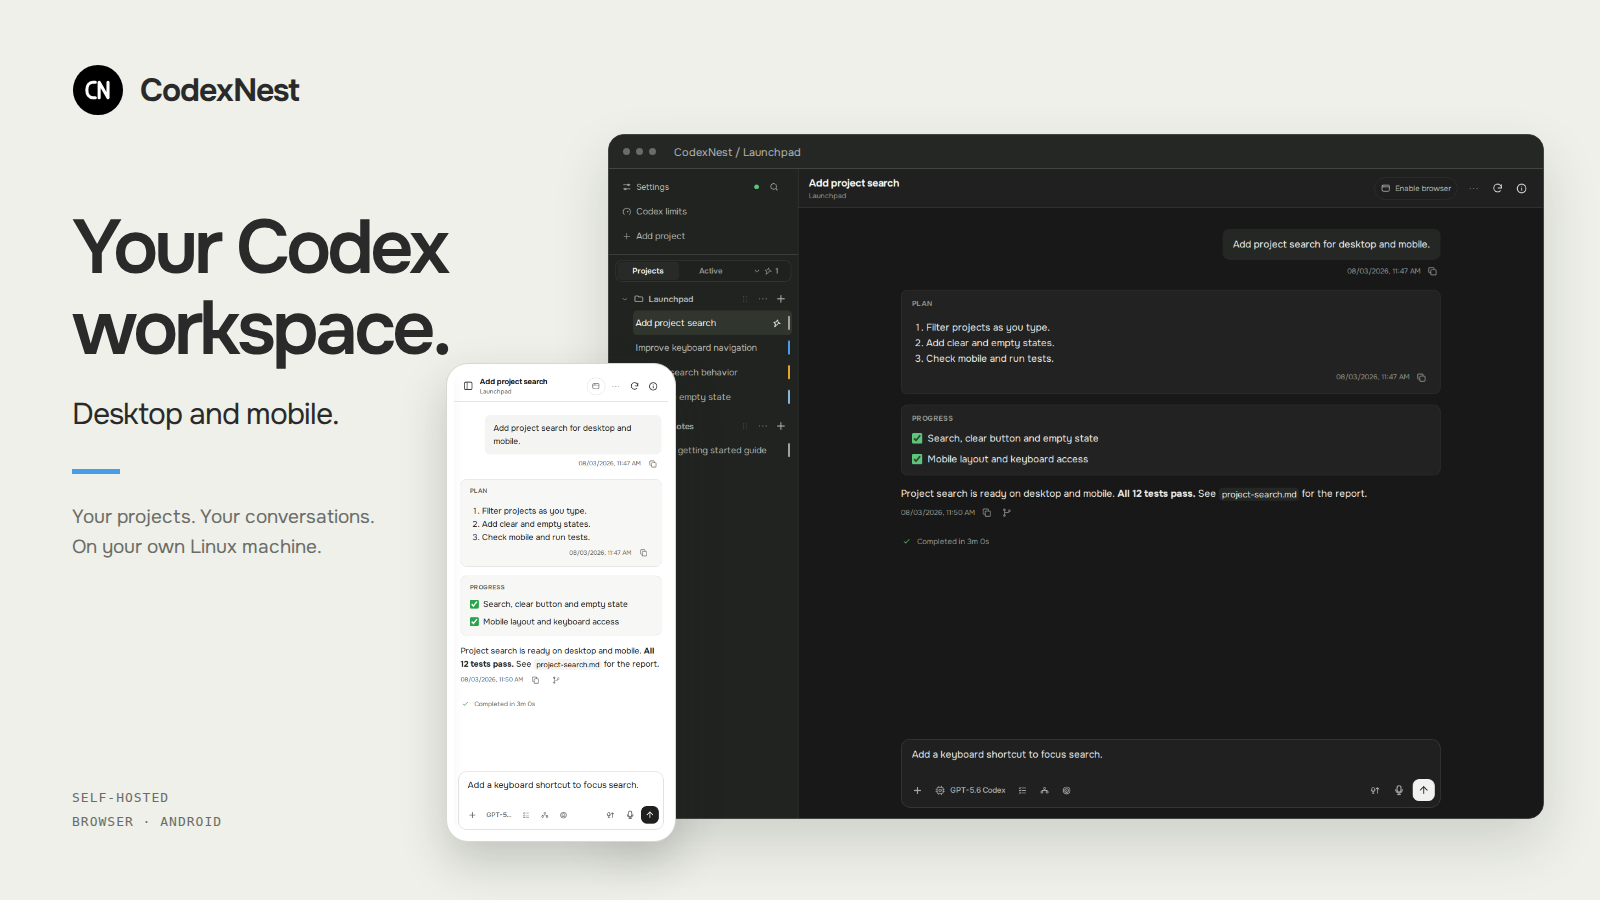
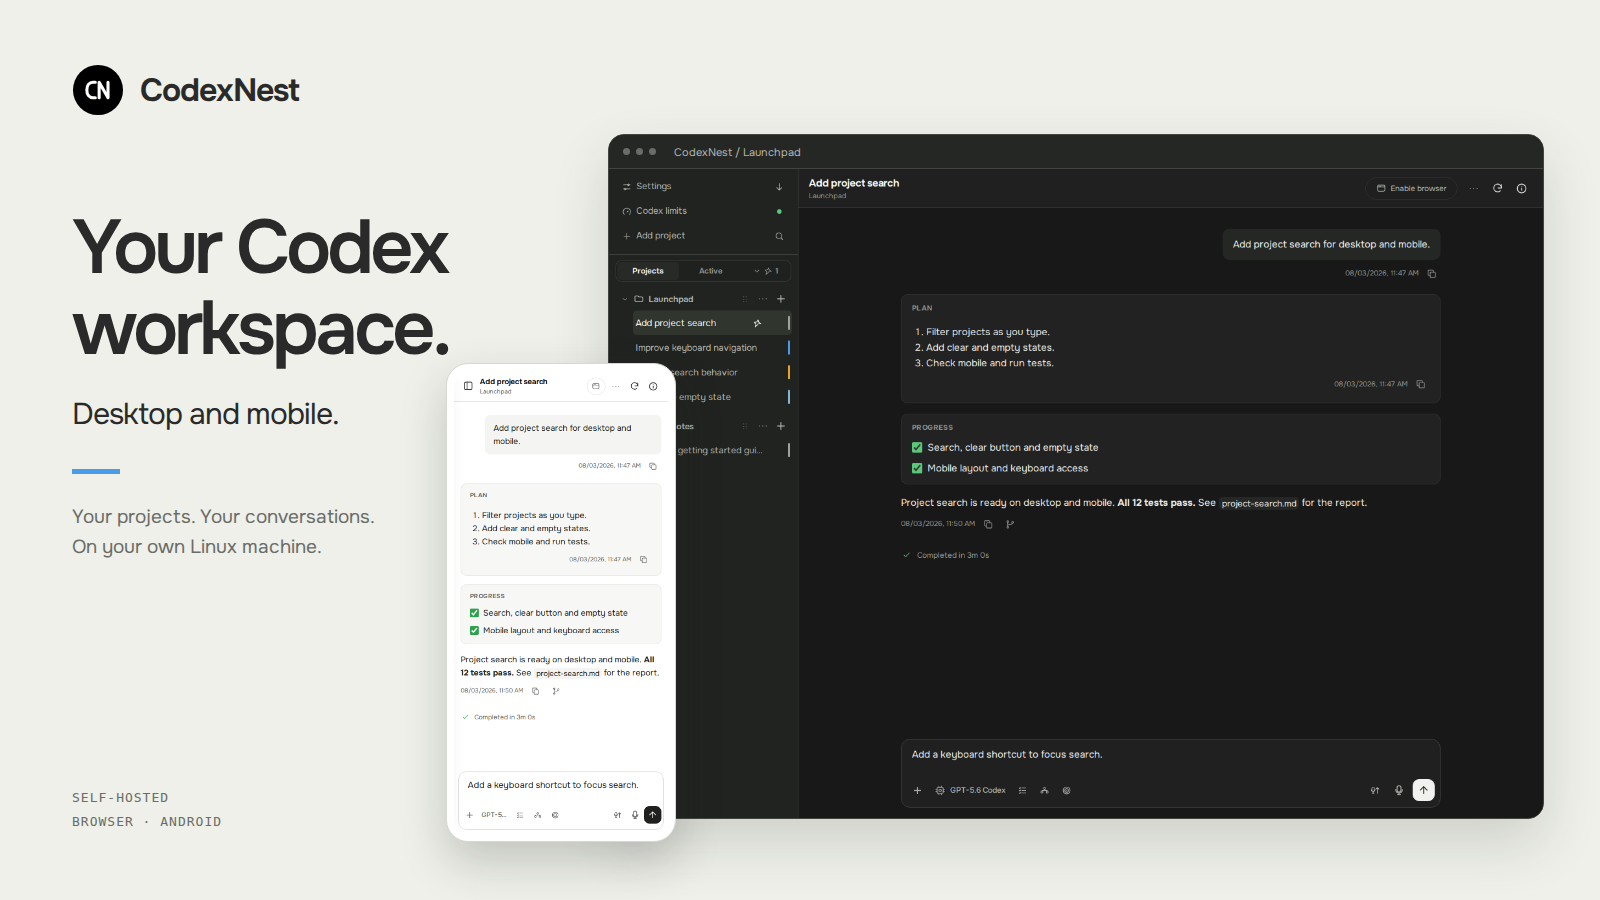
Refresh README screenshots and show mobile session navigation

diff --git a/apps/client/e2e/docs/images.spec.ts b/apps/client/e2e/docs/images.spec.ts
@@ -78,6 +78,14 @@ test("capture the documentation gallery and covers", async ({ browser }) => {
     await page.locator(".turn-activity-disclosure").scrollIntoViewIfNeeded();
   });
   await screen("mobile-session", "light", true, "session-main");
+  await screen("mobile-sessions", "light", true, "session-main", async (page) => {
+    await page.getByRole("button", { name: "Open task list", exact: true }).click();
+    const sidebar = page.locator(".sidebar.open");
+    await expect(sidebar).toBeVisible();
+    await expect(sidebar.locator('a[href="/threads/session-main"]')).toHaveClass(/\bactive\b/u);
+    await expect(sidebar.locator('a[href="/threads/session-active"]')).toBeVisible();
+    await expect(sidebar.locator('a[href="/threads/session-complete"]')).toBeVisible();
+  });
   await screen("mobile-question", "dark", true, "session-attention", async (page) => {
     await expect(page.getByText("When should the project list update?")).toBeVisible();
   });

diff --git a/README.ru.md b/README.ru.md
@@ -95,17 +95,24 @@ curl -fsSL https://github.com/petrovichest/codex-nest/releases/latest/download/i
 
 ### То же рабочее пространство на телефоне
 
-Прочитайте план и продолжите сессию, ответьте на уточнение или откройте готовый
+Откройте список сессий, чтобы переключаться между проектами и диалогами.
+Прочитайте план, продолжите сессию, ответьте на уточнение или откройте готовый
 отчёт. Здесь показан мобильный веб-интерфейс, который также используется внутри
 Android-приложения.
 
 <p align="center">
+  <a href="./docs/assets/mobile-sessions.png"><img src="./docs/assets/mobile-sessions.png" width="260" alt="Светлая тема на телефоне: открытая панель с проектами, закреплёнными и активными сессиями" /></a>
   <a href="./docs/assets/mobile-session.png"><img src="./docs/assets/mobile-session.png" width="260" alt="Светлая тема на телефоне: план, завершённая задача и поле ввода" /></a>
+</p>
+
+<p align="center"><sub>Переключайтесь между сессиями · Продолжайте диалог</sub></p>
+
+<p align="center">
   <a href="./docs/assets/mobile-question.png"><img src="./docs/assets/mobile-question.png" width="260" alt="Тёмная тема на телефоне: варианты ответа и сообщение в очереди" /></a>
   <a href="./docs/assets/mobile-report.png"><img src="./docs/assets/mobile-report.png" width="260" alt="Тёмная тема на телефоне: отчёт о поиске в просмотрщике Markdown" /></a>
 </p>
 
-<p align="center"><sub>Продолжайте диалог · Принимайте решения · Читайте результат</sub></p>
+<p align="center"><sub>Принимайте решения · Читайте результат</sub></p>
 
 ---
 

diff --git a/README.md b/README.md
@@ -92,16 +92,23 @@ Expand the activity log to review commands, test output and file changes.
 
 ### The same workspace on your phone
 
-Read the plan and continue the session, answer a clarification, or open the
-finished report. These are mobile web views, also used inside the Android app.
+Open the session list to switch between projects and conversations. Read the
+plan, continue the session, answer a clarification, or open the finished report.
+These are mobile web views, also used inside the Android app.
 
 <p align="center">
+  <a href="./docs/assets/mobile-sessions.png"><img src="./docs/assets/mobile-sessions.png" width="260" alt="Light mobile interface: open sidebar with projects, pinned and active sessions" /></a>
   <a href="./docs/assets/mobile-session.png"><img src="./docs/assets/mobile-session.png" width="260" alt="Light mobile interface: plan, completed task and message composer" /></a>
+</p>
+
+<p align="center"><sub>Switch between sessions · Continue the conversation</sub></p>
+
+<p align="center">
   <a href="./docs/assets/mobile-question.png"><img src="./docs/assets/mobile-question.png" width="260" alt="Dark mobile interface: clarification options and a queued message" /></a>
   <a href="./docs/assets/mobile-report.png"><img src="./docs/assets/mobile-report.png" width="260" alt="Dark mobile interface: project search report in the Markdown viewer" /></a>
 </p>
 
-<p align="center"><sub>Continue the conversation · Make a decision · Read the result</sub></p>
+<p align="center"><sub>Make a decision · Read the result</sub></p>
 
 ---
 

diff --git a/docs/media/README.md b/docs/media/README.md
@@ -13,9 +13,10 @@ npm run docs:images -w @codexnest/client
 ```
 
 The command starts the client on `127.0.0.1:4173`, mocks HTTP and WebSocket data,
-and captures six PNGs in `docs/assets`. It uses fixed time, loaded fonts, reduced
-motion and a fresh browser context for every screen. It does not start the API
-server or invoke Codex. Unmatched network requests fail the capture.
+and captures seven PNGs in `docs/assets`, including the open mobile session list.
+It uses fixed time, loaded fonts, reduced motion and a fresh browser context for
+every screen. It does not start the API server or invoke Codex. Unmatched network
+requests fail the capture.
 
 The separate documentation suite lives in `apps/client/e2e/docs`. It reuses the
 visual fixture infrastructure without updating visual regression snapshots and
